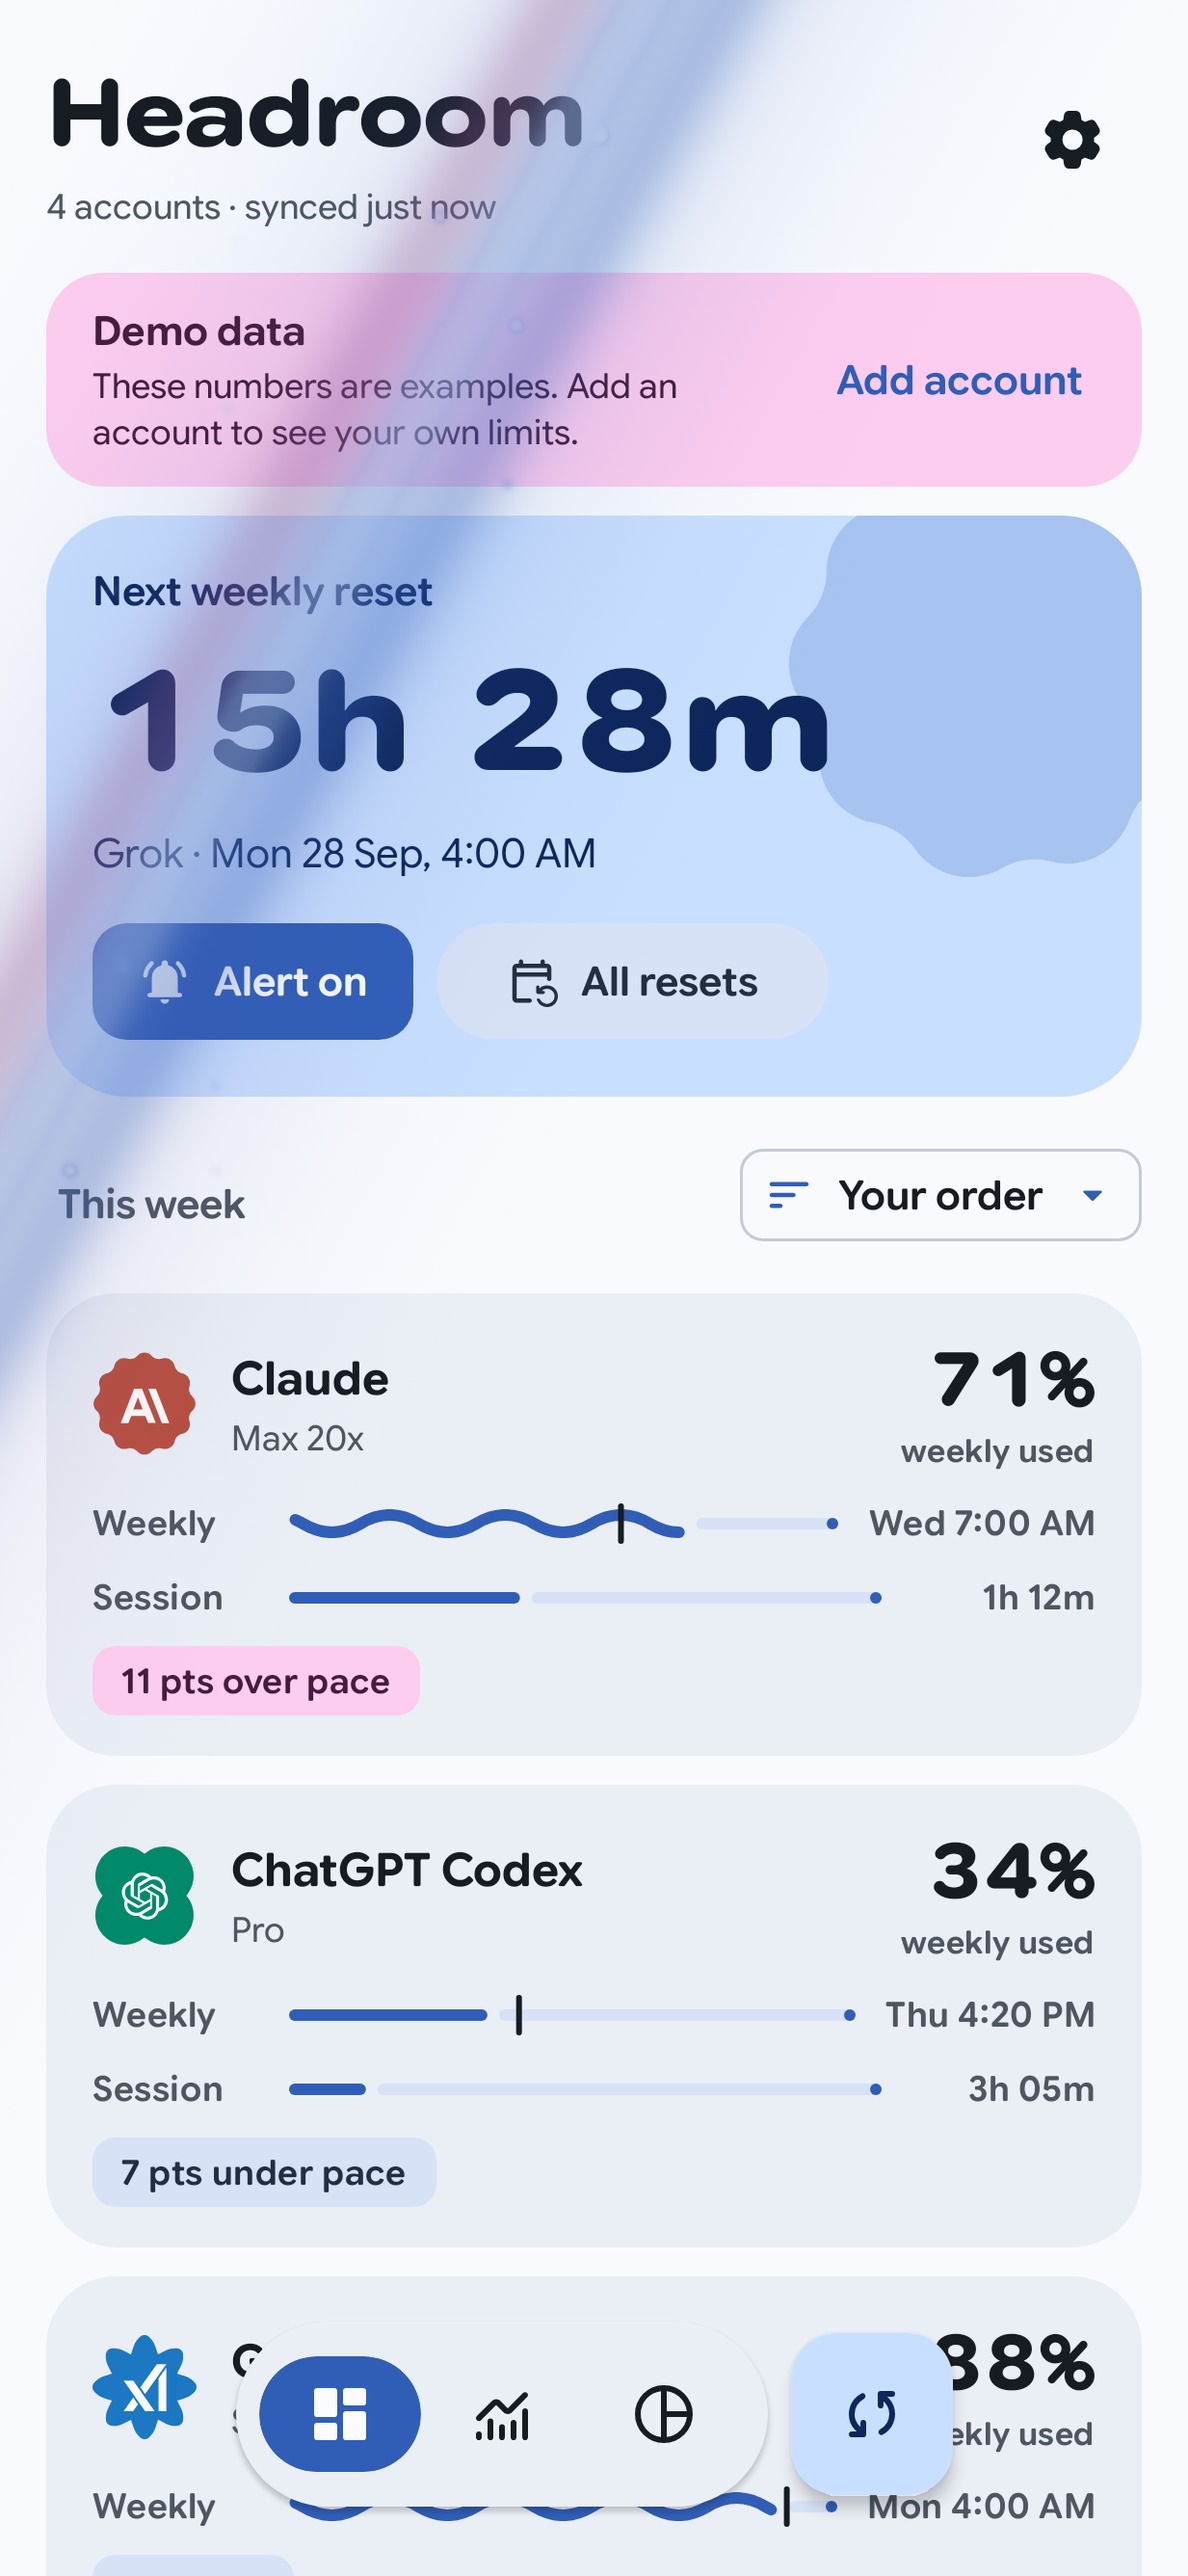
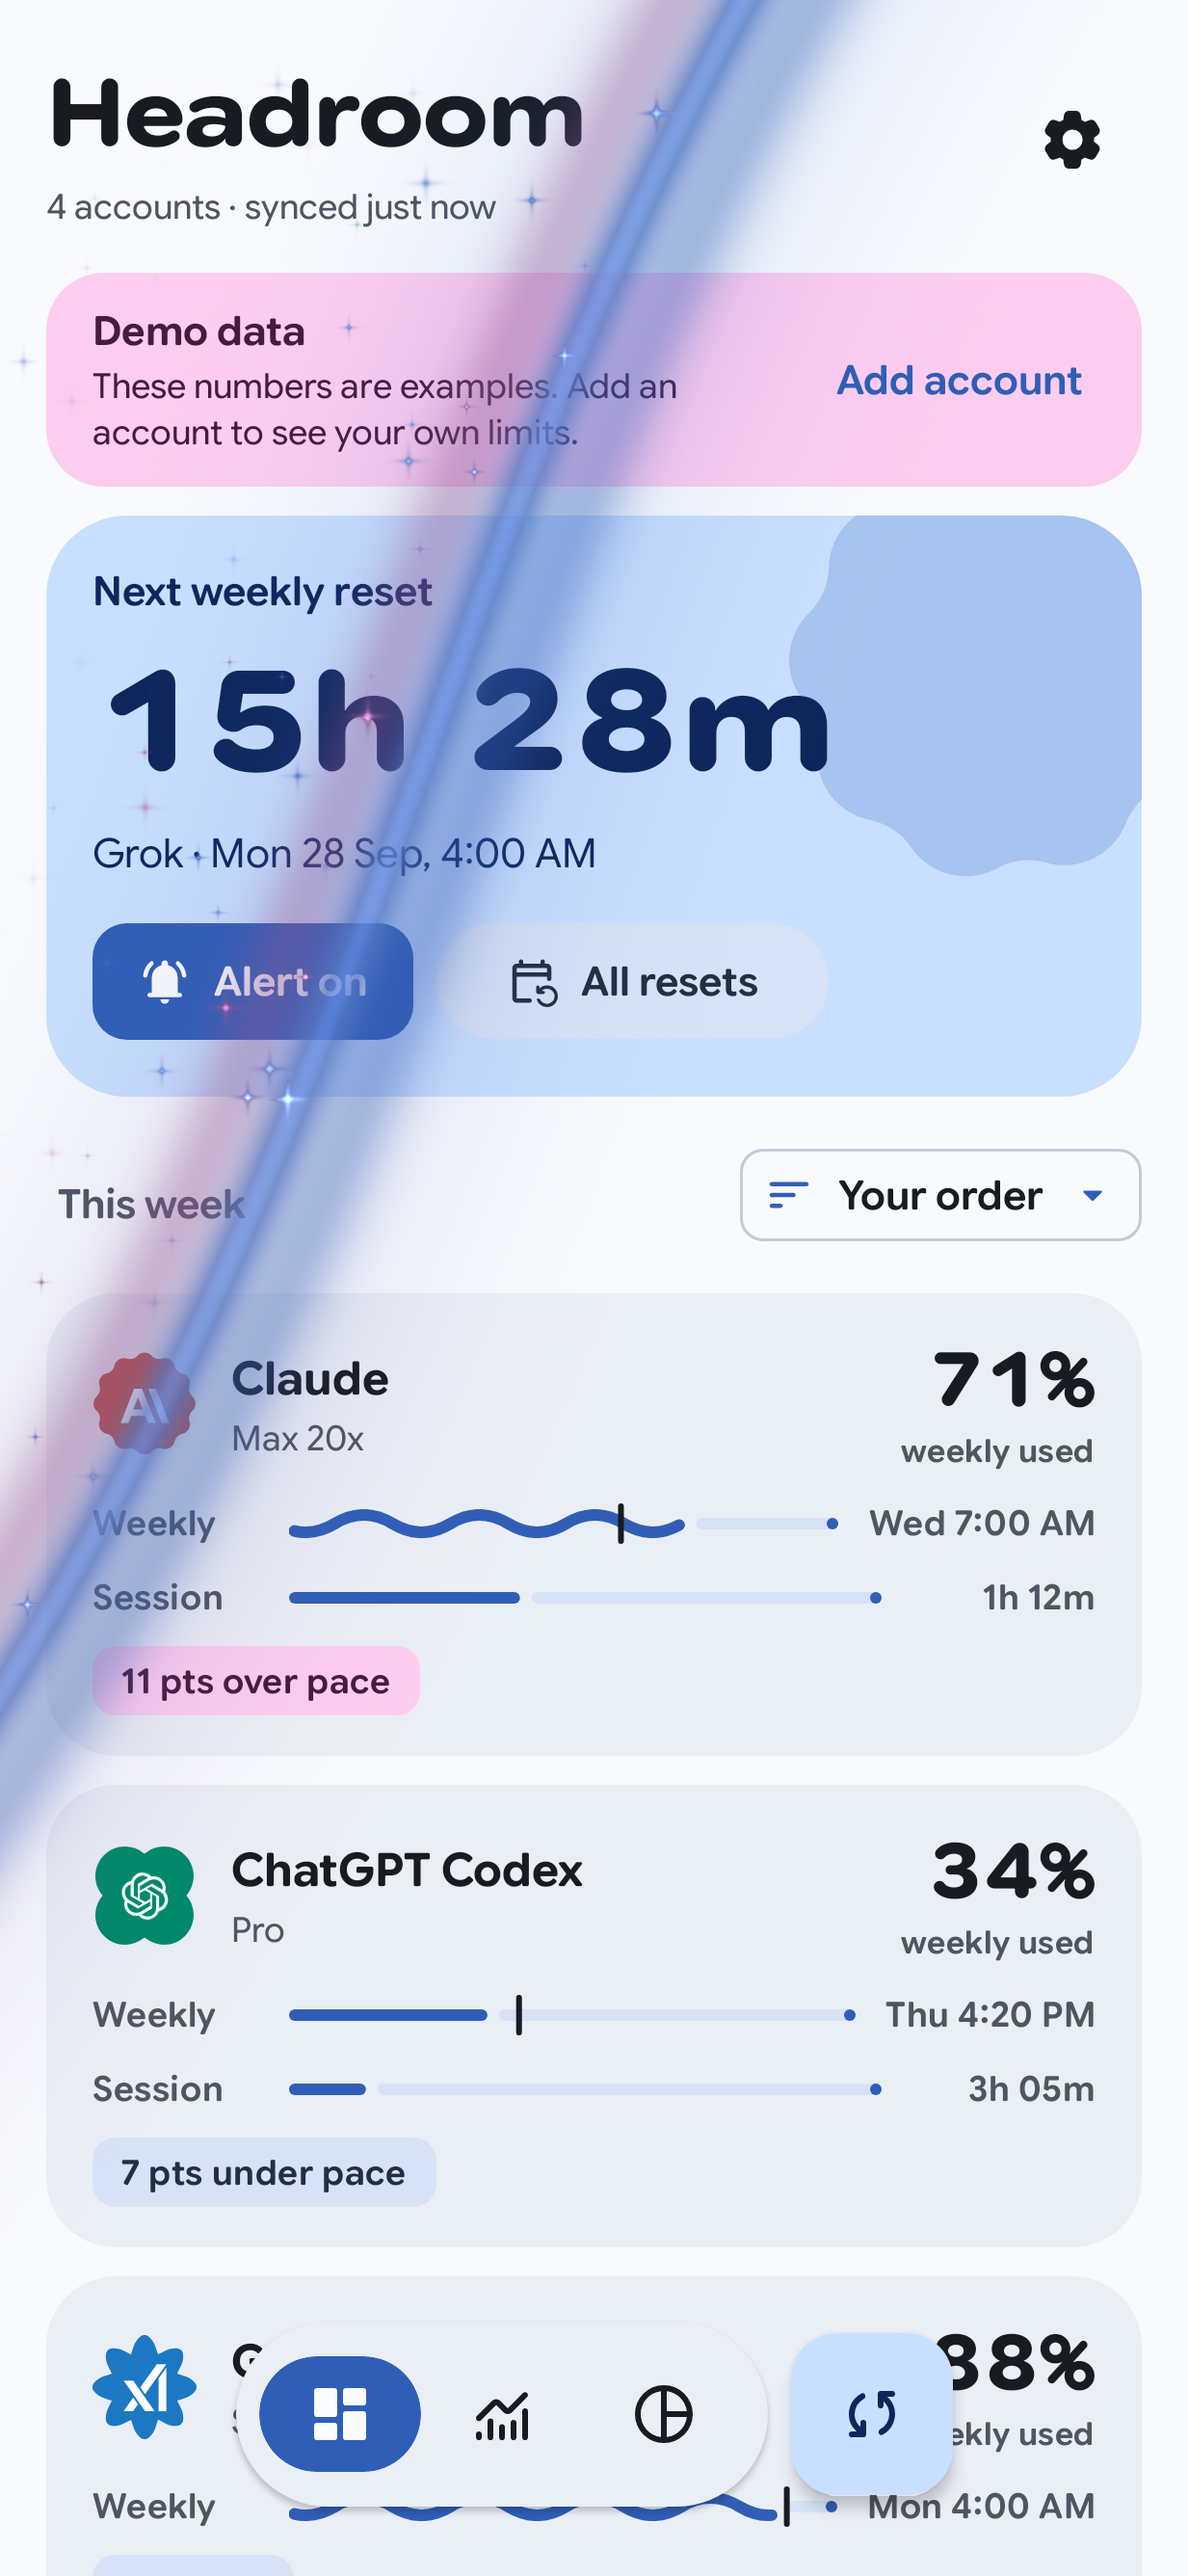
Leave a trail of sparkles behind the refresh shimmer
The sheen now eases in and out, bends and wavers, and turns a little as
it travels. Four-pointed stars light up as it passes them, then twinkle
and fade. On a dark theme the light is added, so it glows.

diff --git a/app/src/main/kotlin/dev/sebastiano/headroom/ui/delights/RefreshShimmer.kt b/app/src/main/kotlin/dev/sebastiano/headroom/ui/delights/RefreshShimmer.kt
@@ -6,6 +6,7 @@ import androidx.compose.material3.MaterialTheme
 import androidx.compose.runtime.Composable
 import androidx.compose.runtime.remember
 import androidx.compose.ui.Modifier
+import androidx.compose.ui.graphics.BlendMode
 import androidx.compose.ui.graphics.Color
 import androidx.compose.ui.graphics.ShaderBrush
 import androidx.compose.ui.graphics.lerp
@@ -13,15 +14,14 @@ import androidx.compose.ui.graphics.luminance
 import androidx.compose.ui.graphics.toArgb
 
 /**
- * The refresh shimmer: a sheen of light that sweeps diagonally across the screen, like light across
- * glass. It has four parts:
- * - a thin, bright core in the `shine` colour;
- * - a coloured fringe on each side of the core: `tint` ahead of it, `accent` behind it;
- * - a soft glow that shades from `tint` to `accent` across the screen;
- * - small glints on a jittered grid, which twinkle as the core passes them.
- *
- * It fades in and out with the sweep, and stays mostly clear away from the core, so text stays
- * readable.
+ * The refresh shimmer: a sheen of light sweeps across the screen and leaves a trail of sparkles.
+ * - The front eases in and out, bends and wavers a little, and turns slightly as it travels. It
+ *   travels during the first 70% of the time.
+ * - The front is a thin bright core in the `shine` colour, with a `tint` fringe ahead of it, an
+ *   `accent` fringe behind it and a soft glow around it.
+ * - Some cells of a jittered grid hold a four-pointed star. A star lights up when the front reaches
+ *   it, then twinkles and fades as the front moves on. For the last 30% of the time only the trail
+ *   is left, fading out.
  *
  * Uniforms: `size` in pixels, `progress` from 0 to 1, `strength` the highest opacity, `density` in
  * pixels per dp, and the colours `shine`, `tint` and `accent`.
@@ -45,42 +45,77 @@ float bell(float x) {
     return exp(-x * x);
 }
 
+// Cubic ease in and out: a slow start, a quick middle and a slow finish.
+float ease(float t) {
+    if (t < 0.5) return 4.0 * t * t * t;
+    float u = 2.0 - 2.0 * t;
+    return 1.0 - u * u * u * 0.5;
+}
+
+// A four-pointed star of radius r: a small round core with two thin crossed rays.
+float star(float2 p, float r) {
+    float2 q = abs(p) / r;
+    float rays = bell(q.x * 6.0) * bell(q.y) + bell(q.y * 6.0) * bell(q.x);
+    return bell(length(p) / (r * 0.3)) + rays * 0.7;
+}
+
+// Where the front is along the sweep at a point, with its gentle bend.
+float bent(float2 p, float2 sweep, float2 normal, float reach) {
+    float across = dot(p, normal) / size.y;
+    return dot(p, sweep) / reach + 0.035 * sin(across * 5.0 + progress * 7.0);
+}
+
 half4 main(float2 coord) {
-    // Along the sweep: 0 at the top-left corner, 1 at the bottom-right one.
-    float2 sweep = normalize(float2(1.0, 0.55));
-    float along = dot(coord, sweep) / dot(size, sweep);
-    float across = dot(coord, float2(-sweep.y, sweep.x)) / size.y;
+    float travel = ease(clamp(progress / 0.7, 0.0, 1.0));
+    float fade = smoothstep(0.0, 0.06, progress) * (1.0 - smoothstep(0.7, 1.0, progress));
 
-    // The sheen starts off screen and ends off screen.
-    float d = along - mix(-0.3, 1.3, progress);
-    float core = bell(d / 0.016);
-    float ahead = bell((d - 0.032) / 0.02);
-    float behind = bell((d + 0.032) / 0.02);
-    float glow = bell(d / 0.1);
+    // The sweep turns a little as it travels.
+    float angle = mix(0.42, 0.62, travel);
+    float2 sweep = float2(cos(angle), sin(angle));
+    float2 normal = float2(-sweep.y, sweep.x);
+    float reach = abs(size.x * sweep.x) + abs(size.y * sweep.y);
+    float front = mix(-0.25, 1.25, travel);
+    float across = clamp(dot(coord, normal) / size.y, 0.0, 1.0);
 
-    // One glint in some cells of a 32dp grid, lit while the core is near it.
-    float cellSize = 32.0 * density;
-    float2 cell = floor(coord / cellSize);
-    float2 offset = float2(hash(cell + 1.7), hash(cell + 4.1)) - 0.5;
-    float2 local = fract(coord / cellSize) - 0.5 - offset * 0.6;
-    float radius = 2.2 * density / cellSize;
-    float glint = step(0.82, hash(cell)) * bell(length(local) / radius) * bell(d / 0.06);
+    // Positive ahead of the front, negative behind it.
+    float d = bent(coord, sweep, normal, reach) - front;
+    float core = bell(d / 0.012) * 0.9;
+    float ahead = bell((d - 0.028) / 0.018) * 0.4;
+    float behind = bell((d + 0.028) / 0.018) * 0.4;
+    float glow = bell(d / 0.08) * 0.16;
+    float3 glowColour = mix(float3(tint.rgb), float3(accent.rgb), across);
+    float3 rgb = float3(shine.rgb) * core + float3(tint.rgb) * ahead
+        + float3(accent.rgb) * behind + glowColour * glow;
+    float weight = core + ahead + behind + glow;
 
-    float3 glowColour = mix(float3(tint.rgb), float3(accent.rgb), clamp(across, 0.0, 1.0));
-    float coreWeight = core * 0.95;
-    float fringeWeight = (ahead + behind) * 0.45;
-    float glowWeight = glow * 0.22;
-    float glintWeight = glint;
-    float weight = coreWeight + fringeWeight + glowWeight + glintWeight;
-    if (weight < 0.0001) return half4(0.0);
-    float3 colour = (float3(shine.rgb) * (coreWeight + glintWeight)
-        + float3(tint.rgb) * ahead * 0.45
-        + float3(accent.rgb) * behind * 0.45
-        + glowColour * glowWeight) / weight;
+    float cellSize = 22.0 * density;
+    float2 base = floor(coord / cellSize);
+    for (int i = -1; i <= 1; i++) {
+        for (int j = -1; j <= 1; j++) {
+            float2 cell = base + float2(float(i), float(j));
+            float h = hash(cell);
+            float2 jitter = float2(hash(cell + 1.7), hash(cell + 4.1)) - 0.5;
+            float2 centre = (cell + 0.5 + jitter * 0.8) * cellSize;
+            float passed = front - bent(centre, sweep, normal, reach);
+            if (h > 0.68 && passed > -0.005) {
+                float life = exp(-max(passed, 0.0) / (0.05 + 0.13 * hash(cell + 9.3)));
+                float twinkle =
+                    0.55 + 0.45 * sin(progress * (30.0 + 25.0 * hash(cell + 2.9)) + h * 40.0);
+                float radius = (2.0 + 3.5 * hash(cell + 7.7)) * density;
+                float lit = star(coord - centre, radius) * life * twinkle;
+                // Most stars shine in the shine colour; some take the tint or the accent.
+                float pick = hash(cell + 5.3);
+                float3 colour = pick < 0.6 ? float3(shine.rgb)
+                    : (pick < 0.8 ? float3(tint.rgb) : float3(accent.rgb));
+                rgb += colour * lit;
+                weight += lit;
+            }
+        }
+    }
 
-    float envelope = smoothstep(0.0, 0.12, progress) * (1.0 - smoothstep(0.88, 1.0, progress));
-    float alpha = clamp(weight, 0.0, 1.0) * strength * envelope;
-    return half4(half3(colour * alpha), half(alpha));
+    float alpha = clamp(weight, 0.0, 1.0) * strength * fade;
+    float3 premultiplied = min(rgb * strength * fade, float3(alpha));
+    return half4(half3(premultiplied), half(alpha));
 }
 """
 
@@ -103,12 +138,14 @@ internal fun RefreshShimmer(progress: () -> Float, modifier: Modifier = Modifier
         shader.setColorUniform("shine", shine.toArgb())
         shader.setColorUniform("tint", scheme.primary.toArgb())
         shader.setColorUniform("accent", scheme.tertiary.toArgb())
-        drawRect(brush)
+        // Adding light makes a dark theme glow; on a light theme it would vanish into the white.
+        drawRect(brush, blendMode = if (dark) BlendMode.Plus else BlendMode.SrcOver)
     }
 }
 
 private const val DARK_SURFACE_LUMINANCE = 0.5f
-/** The highest opacity, reached only in the thin core: bright, but gone in a moment. */
-private const val LIGHT_STRENGTH = 0.6f
-private const val DARK_STRENGTH = 0.7f
-private const val LIGHT_SHINE_WHITENESS = 0.55f
+/** The highest opacity, reached only in the thin core and the stars: bright, but brief. */
+private const val LIGHT_STRENGTH = 0.8f
+private const val DARK_STRENGTH = 0.85f
+/** On a light theme the shine is the primary colour, lightened this much toward white. */
+private const val LIGHT_SHINE_WHITENESS = 0.2f

diff --git a/app/src/main/kotlin/dev/sebastiano/headroom/ui/delights/Delights.kt b/app/src/main/kotlin/dev/sebastiano/headroom/ui/delights/Delights.kt
@@ -1,7 +1,6 @@
 package dev.sebastiano.headroom.ui.delights
 
 import androidx.compose.animation.core.Animatable
-import androidx.compose.animation.core.FastOutSlowInEasing
 import androidx.compose.animation.core.LinearEasing
 import androidx.compose.animation.core.tween
 import androidx.compose.foundation.layout.Box
@@ -82,7 +81,8 @@ class Delights internal constructor(private val scope: CoroutineScope) {
         shimmerJob = scope.launch {
             try {
                 shimmer.snapTo(0f)
-                shimmer.animateTo(1f, tween(SHIMMER_MILLIS, easing = FastOutSlowInEasing))
+                // The shader eases the sweep itself, so time moves evenly here.
+                shimmer.animateTo(1f, tween(SHIMMER_MILLIS, easing = LinearEasing))
             } finally {
                 if (run == shimmerRuns) isShimmering = false
             }
@@ -155,7 +155,7 @@ class Delights internal constructor(private val scope: CoroutineScope) {
     }
 
     private companion object {
-        const val SHIMMER_MILLIS = 1_100
+        const val SHIMMER_MILLIS = 1_700
     }
 }
 

diff --git a/app/src/test/kotlin/dev/sebastiano/headroom/ui/ScreenshotTest.kt b/app/src/test/kotlin/dev/sebastiano/headroom/ui/ScreenshotTest.kt
@@ -537,7 +537,7 @@ private const val FRAME_MILLIS = 16L
 /** Part-way through the reveal into Settings, while the circle is still growing. */
 private const val REVEAL_MIDWAY_MILLIS = 64L
 /** Part-way through the shimmer, while its band crosses the middle of the screen. */
-private const val SHIMMER_MIDWAY_MILLIS = 336L
+private const val SHIMMER_MIDWAY_MILLIS = 560L
 /** Part-way through a confetti burst, while the pieces are high and spread out. */
 private const val CONFETTI_MIDWAY_MILLIS = 400L
 /** A quarter of the way through the next reset card's ripple, while its rings are strong. */

diff --git a/app/src/test/kotlin/dev/sebastiano/headroom/ui/DelightsTest.kt b/app/src/test/kotlin/dev/sebastiano/headroom/ui/DelightsTest.kt
@@ -169,7 +169,7 @@ class DelightsTest {
     private companion object {
         const val ANCHOR = "card"
         val COLOURS = listOf(Color.Red, Color.Blue)
-        const val SHIMMER_DONE_MILLIS = 1_300L
+        const val SHIMMER_DONE_MILLIS = 1_900L
         const val CONFETTI_DONE_MILLIS = 2_300L
     }
 }
